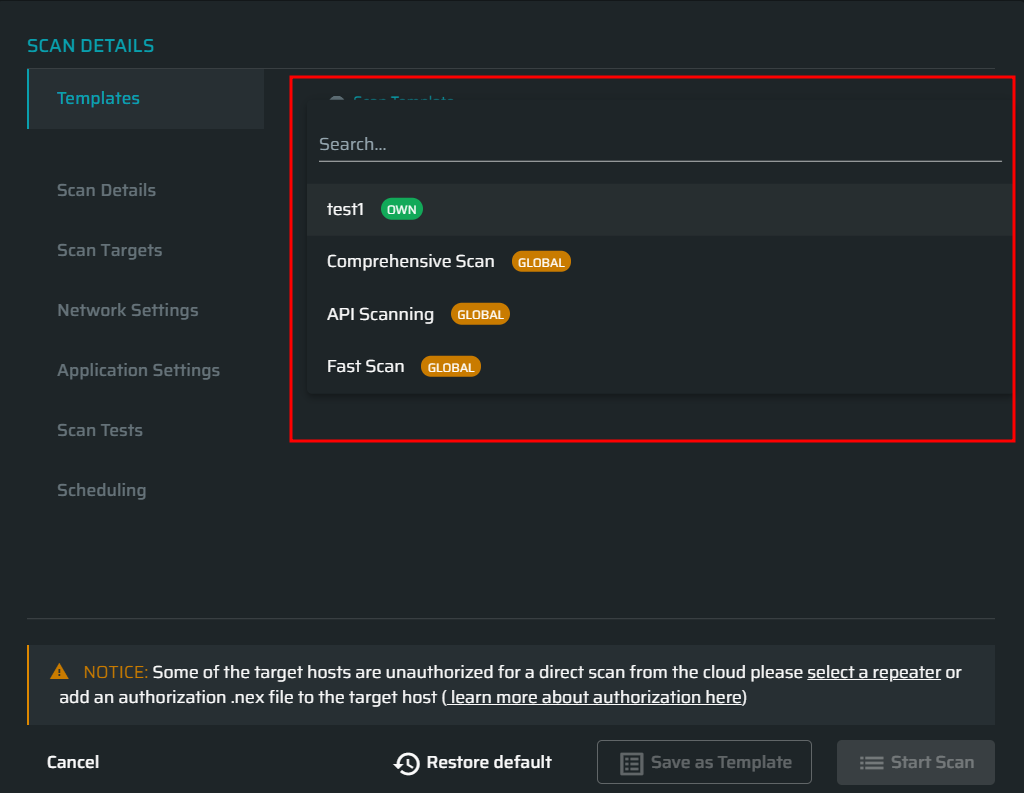
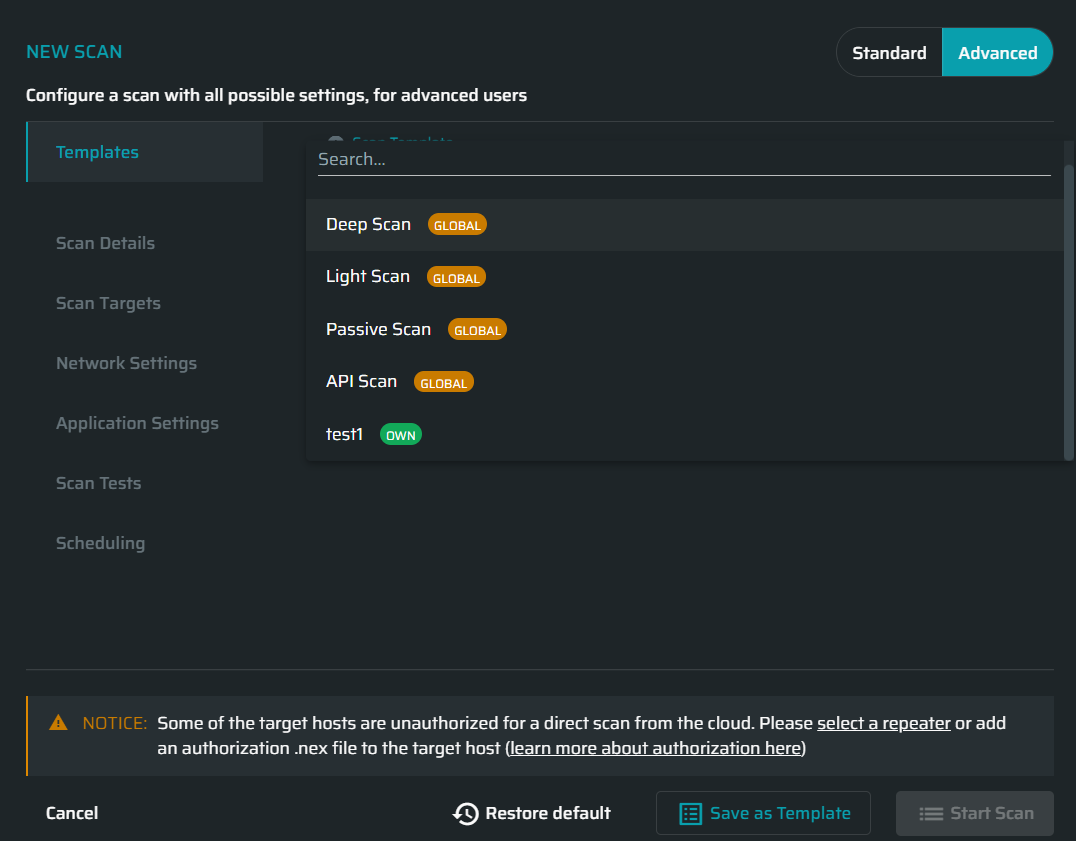
updated templates

diff --git a/docs/guide/np-web-ui/scanning/advanced-mode.md b/docs/guide/np-web-ui/scanning/advanced-mode.md
@@ -1,12 +1,14 @@
 # Advanced Mode
-On the NEW SCAN popup, select the Advanced tab to create a scan with extended settings.
+On the **NEW SCAN** popup, select the **Advanced** tab to create a scan with extended settings.
 1. _(Optional)_ In order to make the scanning definition process quicker, in the <u>**Templates** tab</u>, you can select a predefined set of scan settings. NexPloit provides the following types of predefined scan settings:
 
     ![Templates](media/templates.png ':size=45%')
 
-* **Fast Scan** – This is a preconfigured optimized scan, during which the engine automatically determines which tests to run, based on the data types that are detected. Some tests will be skipped in favor of speed.
-* **Comprehensive Scan** – All possible tests are performed during the scan. This is the most thorough scan, which takes the longest time to complete.
+* **Deep Scan** – All possible tests are performed during the scan. This is the most thorough scan, which takes the longest time to complete.
+* **Light Scan** – This is a preconfigured optimized scan, during which the engine automatically determines which tests to run, based on the data types that are detected. Some tests will be skipped in favor of speed.
+* **Passive Scan** - The engine selects only host-based passive tests to be run.
 * **API Scanning** – Predefined tests that are relevant for API targets.
+* _(Optional)_ **Custom (own) templates** - The scans configured by a user manually and saved as templates. 
 
 >[!TIP|label:Pro Tip]
 In addition, you can define your own scan templates. See [Managing Scan Templates](guide/np-web-ui/scanning/managing-scan-templates.md) for more information.
